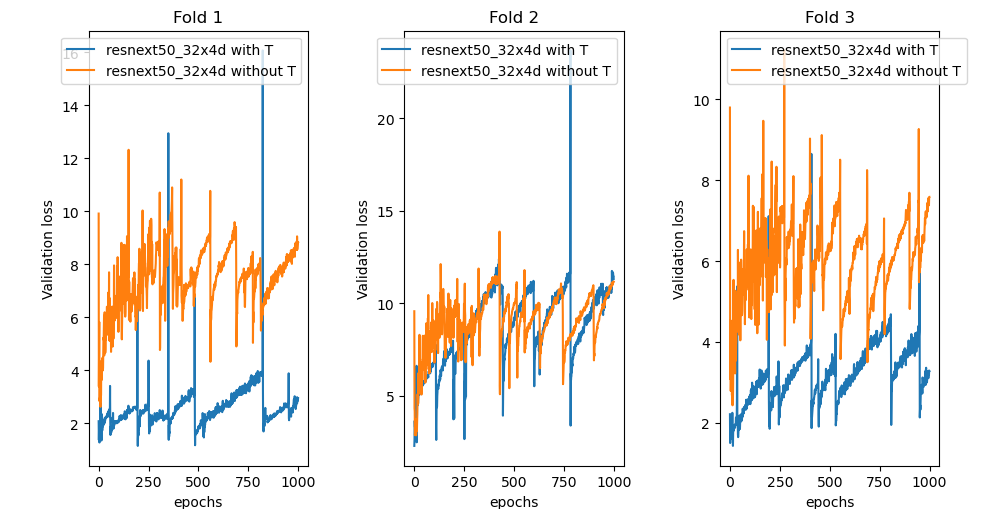
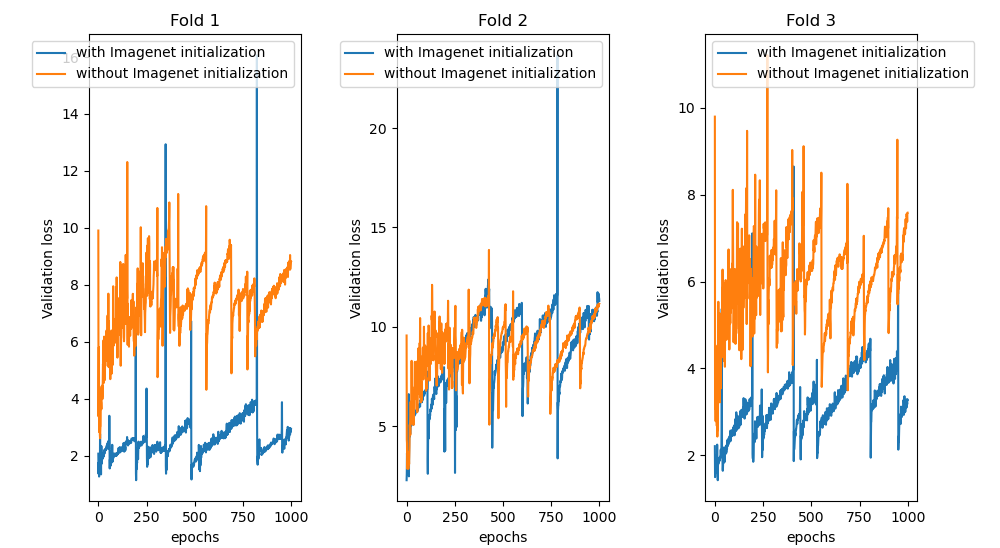
replaced visualize/vis10

diff --git a/visualizations/vis/vis10/visualize.py b/visualizations/vis/vis10/visualize.py
@@ -31,12 +31,12 @@ e = fig.add_subplot(gs[0,2])
 f = fig.add_subplot(gs[0,2])
 
 
-a.plot(fold1_1, label='resnext50_32x4d with T')
-b.plot(fold1_2, label = 'resnext50_32x4d without T')
-c.plot(fold2_1, label='resnext50_32x4d with T')
-d.plot(fold2_2, label = 'resnext50_32x4d without T')
-e.plot(fold3_1, label='resnext50_32x4d with T')
-f.plot(fold3_2, label = 'resnext50_32x4d without T')
+a.plot(fold1_1, label='with Imagenet initialization')
+b.plot(fold1_2, label = 'without Imagenet initialization')
+c.plot(fold2_1, label='with Imagenet initialization')
+d.plot(fold2_2, label = 'without Imagenet initialization')
+e.plot(fold3_1, label='with Imagenet initialization')
+f.plot(fold3_2, label = 'without Imagenet initialization')
 
 a.legend()
 c.legend()
